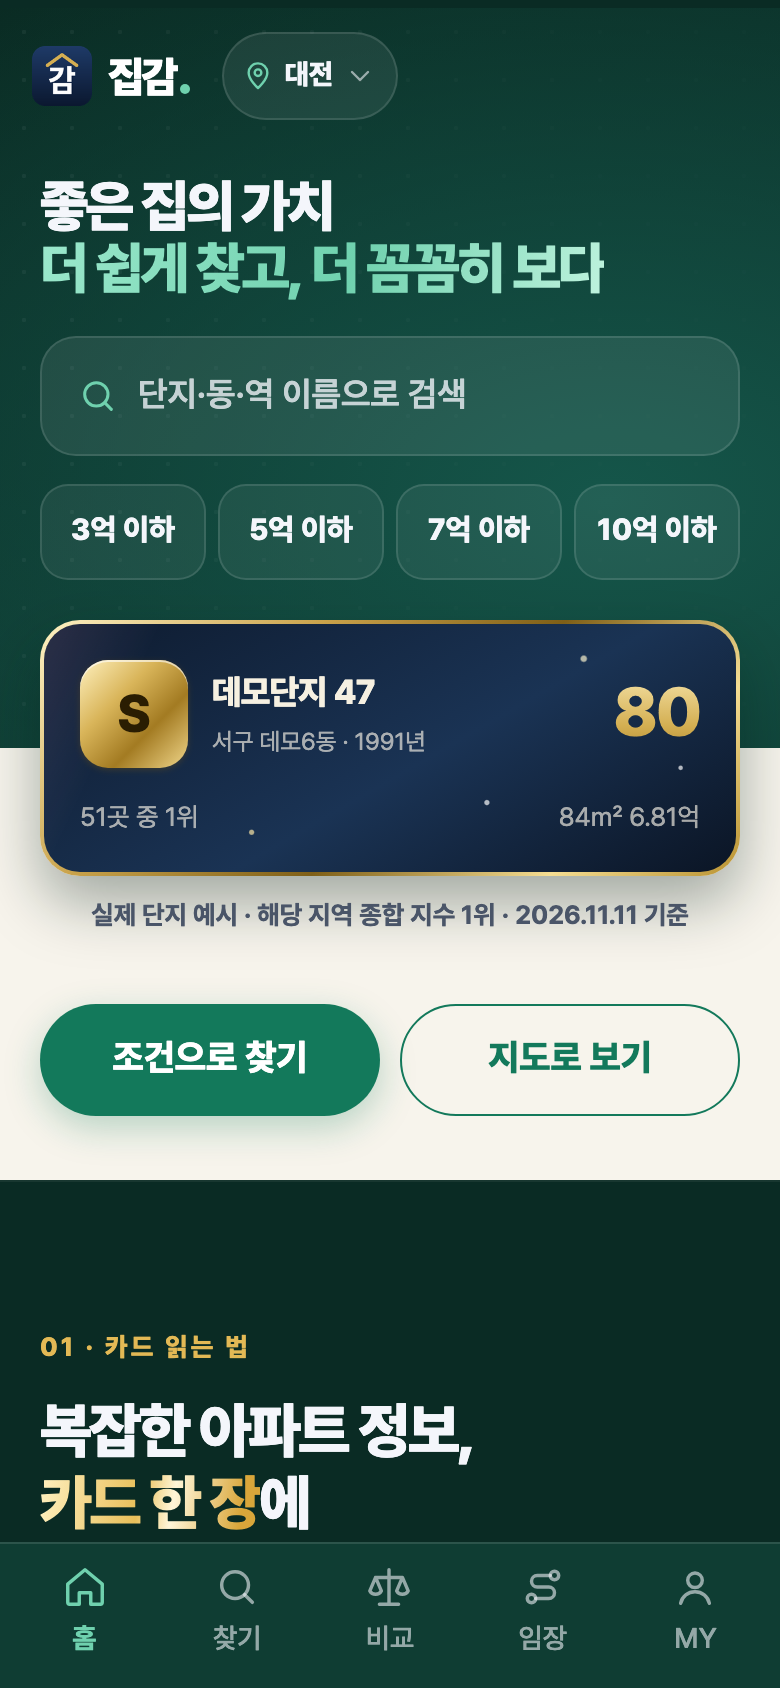
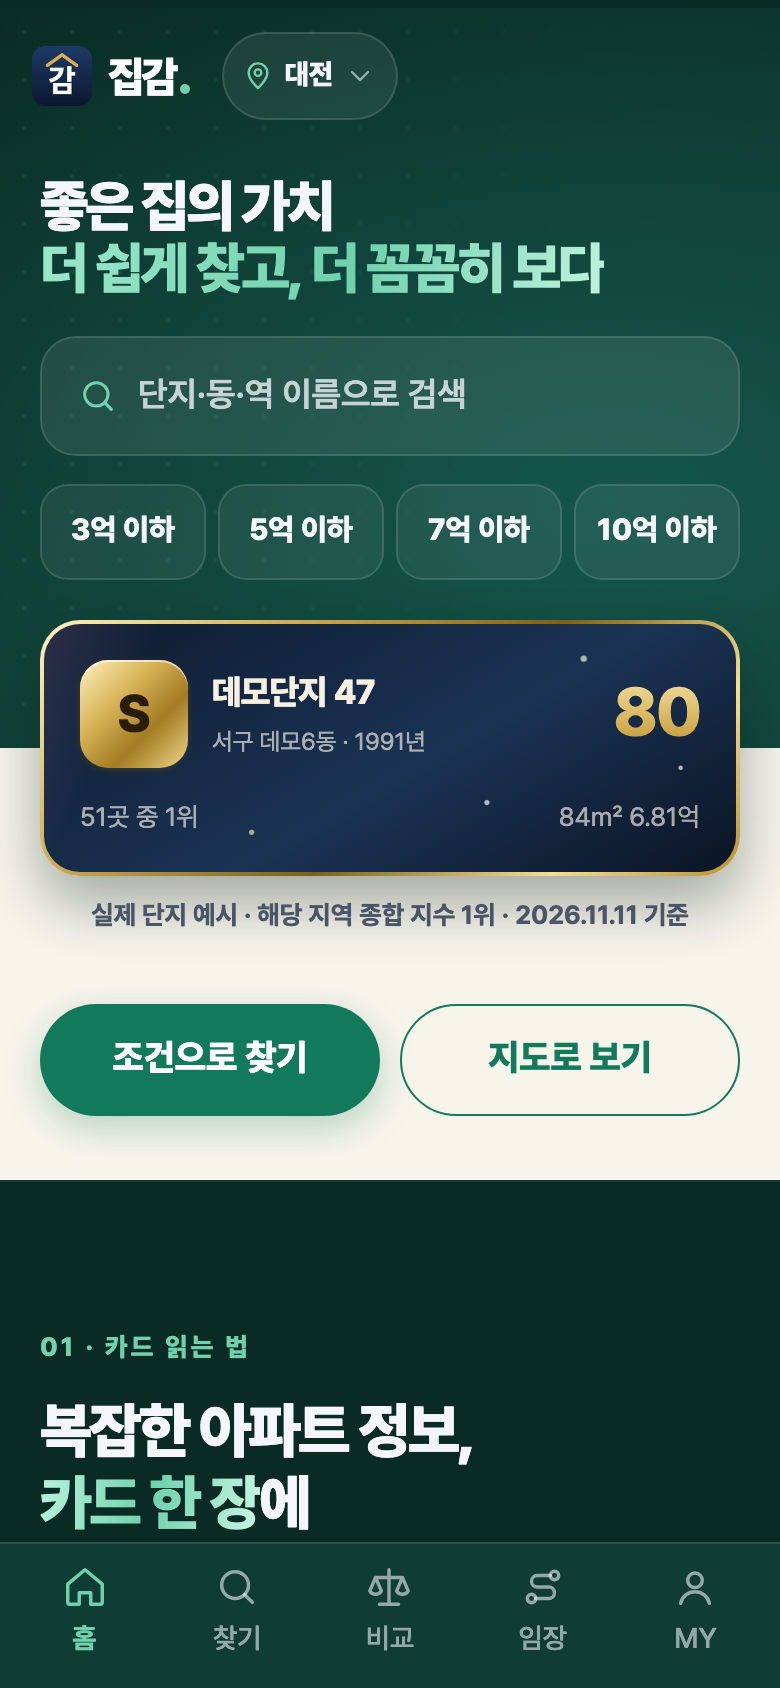
UX v3.9: Fable 완성도 심사 반영(선택색 초록, 금색 제한, 어두운 첫화면, 배치도 밝기·북쪽 표시)

diff --git a/static/style.css b/static/style.css
@@ -1857,7 +1857,7 @@ body[data-page="intro"] .toast { background: #f4f6fb; color: #0a1428; box-shadow
 .pc-line.sp { stroke-dasharray: 5 5; }
 .pc-ghost { fill: none; stroke: var(--ref); stroke-width: 1.6; opacity: .55; }
 .pc-reg { stroke: var(--s2); } .pc-gu { stroke: var(--s3); }
-.pc-rbase { stroke: var(--navy); stroke-width: 1.8; } .pc-rmort { stroke: var(--s1); stroke-width: 1.6; opacity: .8; }
+.pc-rbase { stroke: var(--navy-chart); stroke-width: 1.8; } .pc-rmort { stroke: var(--s1); stroke-width: 1.6; opacity: .8; }
 .pc-peak { stroke: var(--text-2); stroke-dasharray: 4 4; opacity: .7; }
 .pc-peak2 { stroke: var(--pos); stroke-dasharray: 2 3; opacity: .8; }
 text.pc-peak, text.pc-peak2 { stroke: none; opacity: 1; }
@@ -1871,7 +1871,7 @@ circle.pc-now { fill: var(--surface); stroke: var(--s1); stroke-width: 2.5; }
 .pc-key { display: inline-flex; align-items: center; gap: 6px; }
 .pc-key i { display: inline-block; flex: none; }
 .k-line { width: 16px; height: 3px; border-radius: 2px; background: var(--s1); }
-.k-line.s2 { background: var(--s2); } .k-line.s3 { background: var(--s3); } .k-line.navy { background: var(--navy); }
+.k-line.s2 { background: var(--s2); } .k-line.s3 { background: var(--s3); } .k-line.navy { background: var(--navy-chart); }
 .k-line.ghost { background: var(--ref); opacity: .6; } .k-line.thin { height: 2px; }
 .k-dash { width: 16px; height: 0; border-top: 2.5px dashed var(--s1); }
 .k-band { width: 16px; height: 10px; border-radius: 3px; background: var(--s1); opacity: .2; }
@@ -1990,7 +1990,7 @@ circle.pc-now { fill: var(--surface); stroke: var(--s1); stroke-width: 2.5; }
 .art-link { stroke: var(--text-2); stroke-width: 2; stroke-dasharray: 6 6; fill: none; opacity: .5; }
 .art-stn { fill: var(--surface); stroke: var(--s1); stroke-width: 3; }
 .art-b { fill: var(--surface); stroke: var(--border); filter: drop-shadow(0 2px 4px rgba(0,0,0,.12)); }
-.art-b.main { fill: var(--navy); stroke: var(--navy); }
+.art-b.main { fill: var(--navy-chart); stroke: var(--navy-chart); }
 .art-bt { font-size: 14px; font-weight: 800; fill: var(--text); }
 .art-bt.main { fill: var(--on-navy); } .art-bt.work, .art-bt.stn { fill: var(--accent); }
 .sv-qn { margin: 0; font-size: 13px; font-weight: 800; color: color-mix(in srgb, var(--s3) 60%, var(--text)); }
@@ -2959,7 +2959,7 @@ body[data-page="intro"] footer .ft-brand b { color: #eef0f8; }
 .cs-map { margin: 0; position: sticky; top: 72px; border-radius: 16px; overflow: hidden;
   background: radial-gradient(circle at 30% 20%, rgba(42,120,214,.08), transparent 60%), var(--chip); border: 1px solid var(--border); }
 .cs-svg { display: block; width: 100%; height: auto; }
-.cs-route { fill: none; stroke: var(--navy); stroke-width: 2.5; stroke-dasharray: 7 6; stroke-linecap: round; stroke-linejoin: round; opacity: .75; }
+.cs-route { fill: none; stroke: var(--navy-chart); stroke-width: 2.5; stroke-dasharray: 7 6; stroke-linecap: round; stroke-linejoin: round; opacity: .75; }
 .cs-dot { fill: #13294b; stroke: #e8c66c; stroke-width: 2.5; }
 .cs-dot-no { font-size: 12px; font-weight: 800; fill: #fff; }
 .cs-dot-nm { font-size: 11px; font-weight: 700; fill: var(--text); paint-order: stroke; stroke: var(--chip); stroke-width: 3px; }
@@ -5307,4 +5307,20 @@ footer a::after, .pb-asof a::after { content: ""; position: absolute; left: -6px
 .hc-collect .hc-photo.plan .hc-pin { display: none; }
 .hc-collect .hc-plan { position: absolute; inset: 0; width: 100%; height: 100%; display: block; }
 .hc-collect .hc-plantag { position: absolute; left: 8px; bottom: 8px; padding: 2px 8px; border-radius: 9px; background: rgba(8, 24, 20, .78); color: #fff; font-size: 12px; font-weight: 700; line-height: 1.4; }
-.tc .mcw-hc .hc-plantag { display: none; }
+.tc .mcw-hc .hc-plantag, .tc .mcw-hc .hc-plannorth { display: none; }
+
+/* ===== UX v3.9 · Fable 완성도 심사 반영 =====
+   선택·켜짐 색(--navy)이 남색·하늘색으로 남아 있던 것을 브랜드 초록으로. 차트는 옛 값(--navy-chart)으로 고정.
+   금색은 등급·점수에만(소개 번호·재건축 칩은 초록/민트). 어두운 화면 첫 화면의 크림 띠 제거. 배치도: 높을수록 밝게 + 북쪽 표시. */
+:root { --navy: #0f3d33; --on-navy: #ffffff; --navy-chart: #13294b; --text: #10241e; }
+@media (prefers-color-scheme: dark) { :root { --navy: #6fd1ae; --on-navy: #0b1f1a; --navy-chart: #9ec5f4; --text: #f0efec; } }
+.it-kicker, .it-step-n { color: var(--accent); }
+.it-sec h2 em, .it-hero h1 em { background: linear-gradient(100deg, #b9f3de 0%, #6fd1ae 50%, #c9f7e6 100%); -webkit-background-clip: text; background-clip: text; color: transparent; -webkit-text-fill-color: transparent; }
+.it-step-n span { background: var(--accent); color: var(--on-accent); }
+.mc-strip .mc-chip { color: #9be8cc; background: rgba(111, 209, 174, .14); border-color: rgba(111, 209, 174, .45); }
+@media (max-width: 560px) and (prefers-color-scheme: dark) {
+  .it-start .it-fan::before { background: #0b1f1a; }
+  .it-start .it-fan-tag { color: var(--text-2); }
+  .it-start .it-btn.ghost { color: #6fd1ae; border-color: #6fd1ae; }
+}
+.hc-collect .hc-plannorth { position: absolute; right: 8px; top: 6px; font-size: 12px; font-weight: 800; color: #cfe9df; line-height: 1.4; }

diff --git a/static/cover.js b/static/cover.js
@@ -36,7 +36,7 @@
   const NS = "http://www.w3.org/2000/svg";
   const mk = (n, a) => { const e = document.createElementNS(NS, n); Object.keys(a || {}).forEach(k => e.setAttribute(k, a[k])); return e; };
   function tone(f) {   // 층수 → 초록 농도 (모든 단지 같은 기준: 5층 이하 옅게, 50층 이상 진하게)
-    const t = clamp((f - 5) / 45, 0, 1), a = [155, 232, 204], b = [34, 125, 98];
+    const t = clamp((f - 5) / 45, 0, 1), a = [46, 107, 88], b = [155, 232, 204];   // 낮은 동은 어둡게, 높은 동은 밝게 (어두운 바탕에서 높은 동이 먼저 보이게)
     return "rgb(" + a.map((v, i) => Math.round(v + (b[i] - v) * t)).join(",") + ")";
   }
   function drawPlan(box, doc) {
@@ -51,14 +51,15 @@
     });
     box.classList.add("plan", "on");
     const tag = document.createElement("span"); tag.className = "hc-plantag"; tag.textContent = est ? "배치도 · 일부 추정" : "배치도";
-    box.prepend(svg); box.append(tag);
+    const nn = document.createElement("span"); nn.className = "hc-plannorth"; nn.textContent = "N↑"; nn.setAttribute("aria-hidden", "true");
+    box.prepend(svg); box.append(tag, nn);
     notePlan();
   }
   let notedPlan = false;
   function notePlan() {
     if (notedPlan) return; notedPlan = true;
     const p = document.createElement("p"); p.className = "hc-srcnote";
-    p.textContent = "카드 속 배치도: 건축물 자료로 그린 동 위치와 높이예요(북쪽이 위, 진할수록 높은 동). 실제 외관은 아니에요";
+    p.textContent = "카드 속 배치도: 건축물 자료로 그린 동 위치와 높이예요(북쪽이 위, 밝을수록 높은 동). 실제 외관은 아니에요";
     (document.querySelector("main") || document.body).append(p);
   }
 

diff --git a/tests/test_v39_fable_fixes.py b/tests/test_v39_fable_fixes.py
@@ -1,0 +1,22 @@
+"""UX v3.9: Fable 완성도 심사 반영 — 선택 색은 브랜드 초록, 금색은 등급·점수에만, 어두운 첫 화면 크림 띠 없음."""
+from pathlib import Path
+
+CSS = (Path(__file__).resolve().parent.parent / "static/style.css").read_text(encoding="utf-8")
+SEG = CSS[CSS.index("UX v3.9 · Fable 완성도 심사 반영"):]
+
+
+def test_selection_color_token_is_brand_green_and_charts_keep_old_navy():
+    assert ":root { --navy: #0f3d33; --on-navy: #ffffff; --navy-chart: #13294b;" in SEG
+    assert "--navy: #6fd1ae; --on-navy: #0b1f1a; --navy-chart: #9ec5f4;" in SEG
+    for t in (".pc-rbase { stroke: var(--navy-chart);", ".k-line.navy { background: var(--navy-chart); }", ".art-b.main { fill: var(--navy-chart);"):
+        assert t in CSS
+
+
+def test_gold_not_used_for_intro_labels_or_detail_chip():
+    assert ".it-kicker, .it-step-n { color: var(--accent); }" in SEG
+    assert "rgba(111, 209, 174, .14)" in SEG and ".it-sec h2 em, .it-hero h1 em { background: linear-gradient(100deg, #b9f3de" in SEG
+    assert "--g-S: #b8912f" in CSS          # 등급 금색은 그대로
+
+
+def test_dark_intro_has_no_cream_band():
+    assert "(prefers-color-scheme: dark) {\n  .it-start .it-fan::before { background: #0b1f1a; }" in SEG

diff --git a/tests/test_v38_card_plan.py b/tests/test_v38_card_plan.py
@@ -20,12 +20,12 @@ def test_card_photo_slot_carries_slug_and_cover_js_falls_back_to_photo():
     j = R("static/cover.js")
     assert 'plans.json' in j and "drawPlan" in j and "else photo(box)" in j          # 자료 없으면 항공 사진
     assert "실제 외관은 아니에요" in j and "배치도 · 일부 추정" in j                  # 오해 막는 문구
-    assert "tone(" in j and "(f - 5) / 45" in j                                       # 층수→색 농도, 모든 단지 같은 기준
+    assert "tone(" in j and "(f - 5) / 45" in j and "밝을수록 높은 동" in j and "N↑" in j                                       # 층수→색 농도, 모든 단지 같은 기준
 
 
 def test_plan_css_keeps_label_and_hides_label_on_tiny_cards():
     c = R("static/style.css")
-    assert ".hc-collect .hc-photo.plan" in c and ".tc .mcw-hc .hc-plantag { display: none; }" in c
+    assert ".hc-collect .hc-photo.plan" in c and ".tc .mcw-hc .hc-plantag, .tc .mcw-hc .hc-plannorth { display: none; }" in c
     assert ".hc-collect .hc-photo.plan .hc-pin { display: none; }" in c
 
 

diff --git a/docs/ux-v2/PR-v38-card-plan.md b/docs/ux-v2/PR-v38-card-plan.md
@@ -21,3 +21,11 @@
 - 초고층처럼 동 폭이 좁은 단지는 점처럼 보임. 입체 표현 없음.
 - 실제 폰·사람 시험 없음.
 사용자 승인 전 병합·배포하지 않았습니다.
+
+## v3.9 추가 (Fable 5.2 완성도 심사 63/100 반영, 같은 PR)
+- 선택·켜짐 색(--navy)이 남색·하늘색이던 것을 브랜드 초록으로(차트는 옛 값 --navy-chart 로 고정).
+- 금색은 등급·점수에만: 소개 번호·재건축 칩·'카드 한 장' 제목을 민트로.
+- 어두운 화면 첫 화면의 크림 띠 제거.
+- 배치도: 높은 동을 밝게(어두운 바탕에서 잘 보이게), 북쪽 표시 N↑, 라벨과 안 겹침.
+- Node 106 / Python 413 통과.
+- 심사에서 지적됐지만 이번에 안 고친 것: 상세 큰 카드의 야경 건물 그림(기존, 별도 결정 필요), 찾기 아래 고정 띠 모양, 지도 점 크기·겹침, 상세 알림창 경계, 배치도 크기, 글자 크기 미세 조정.
